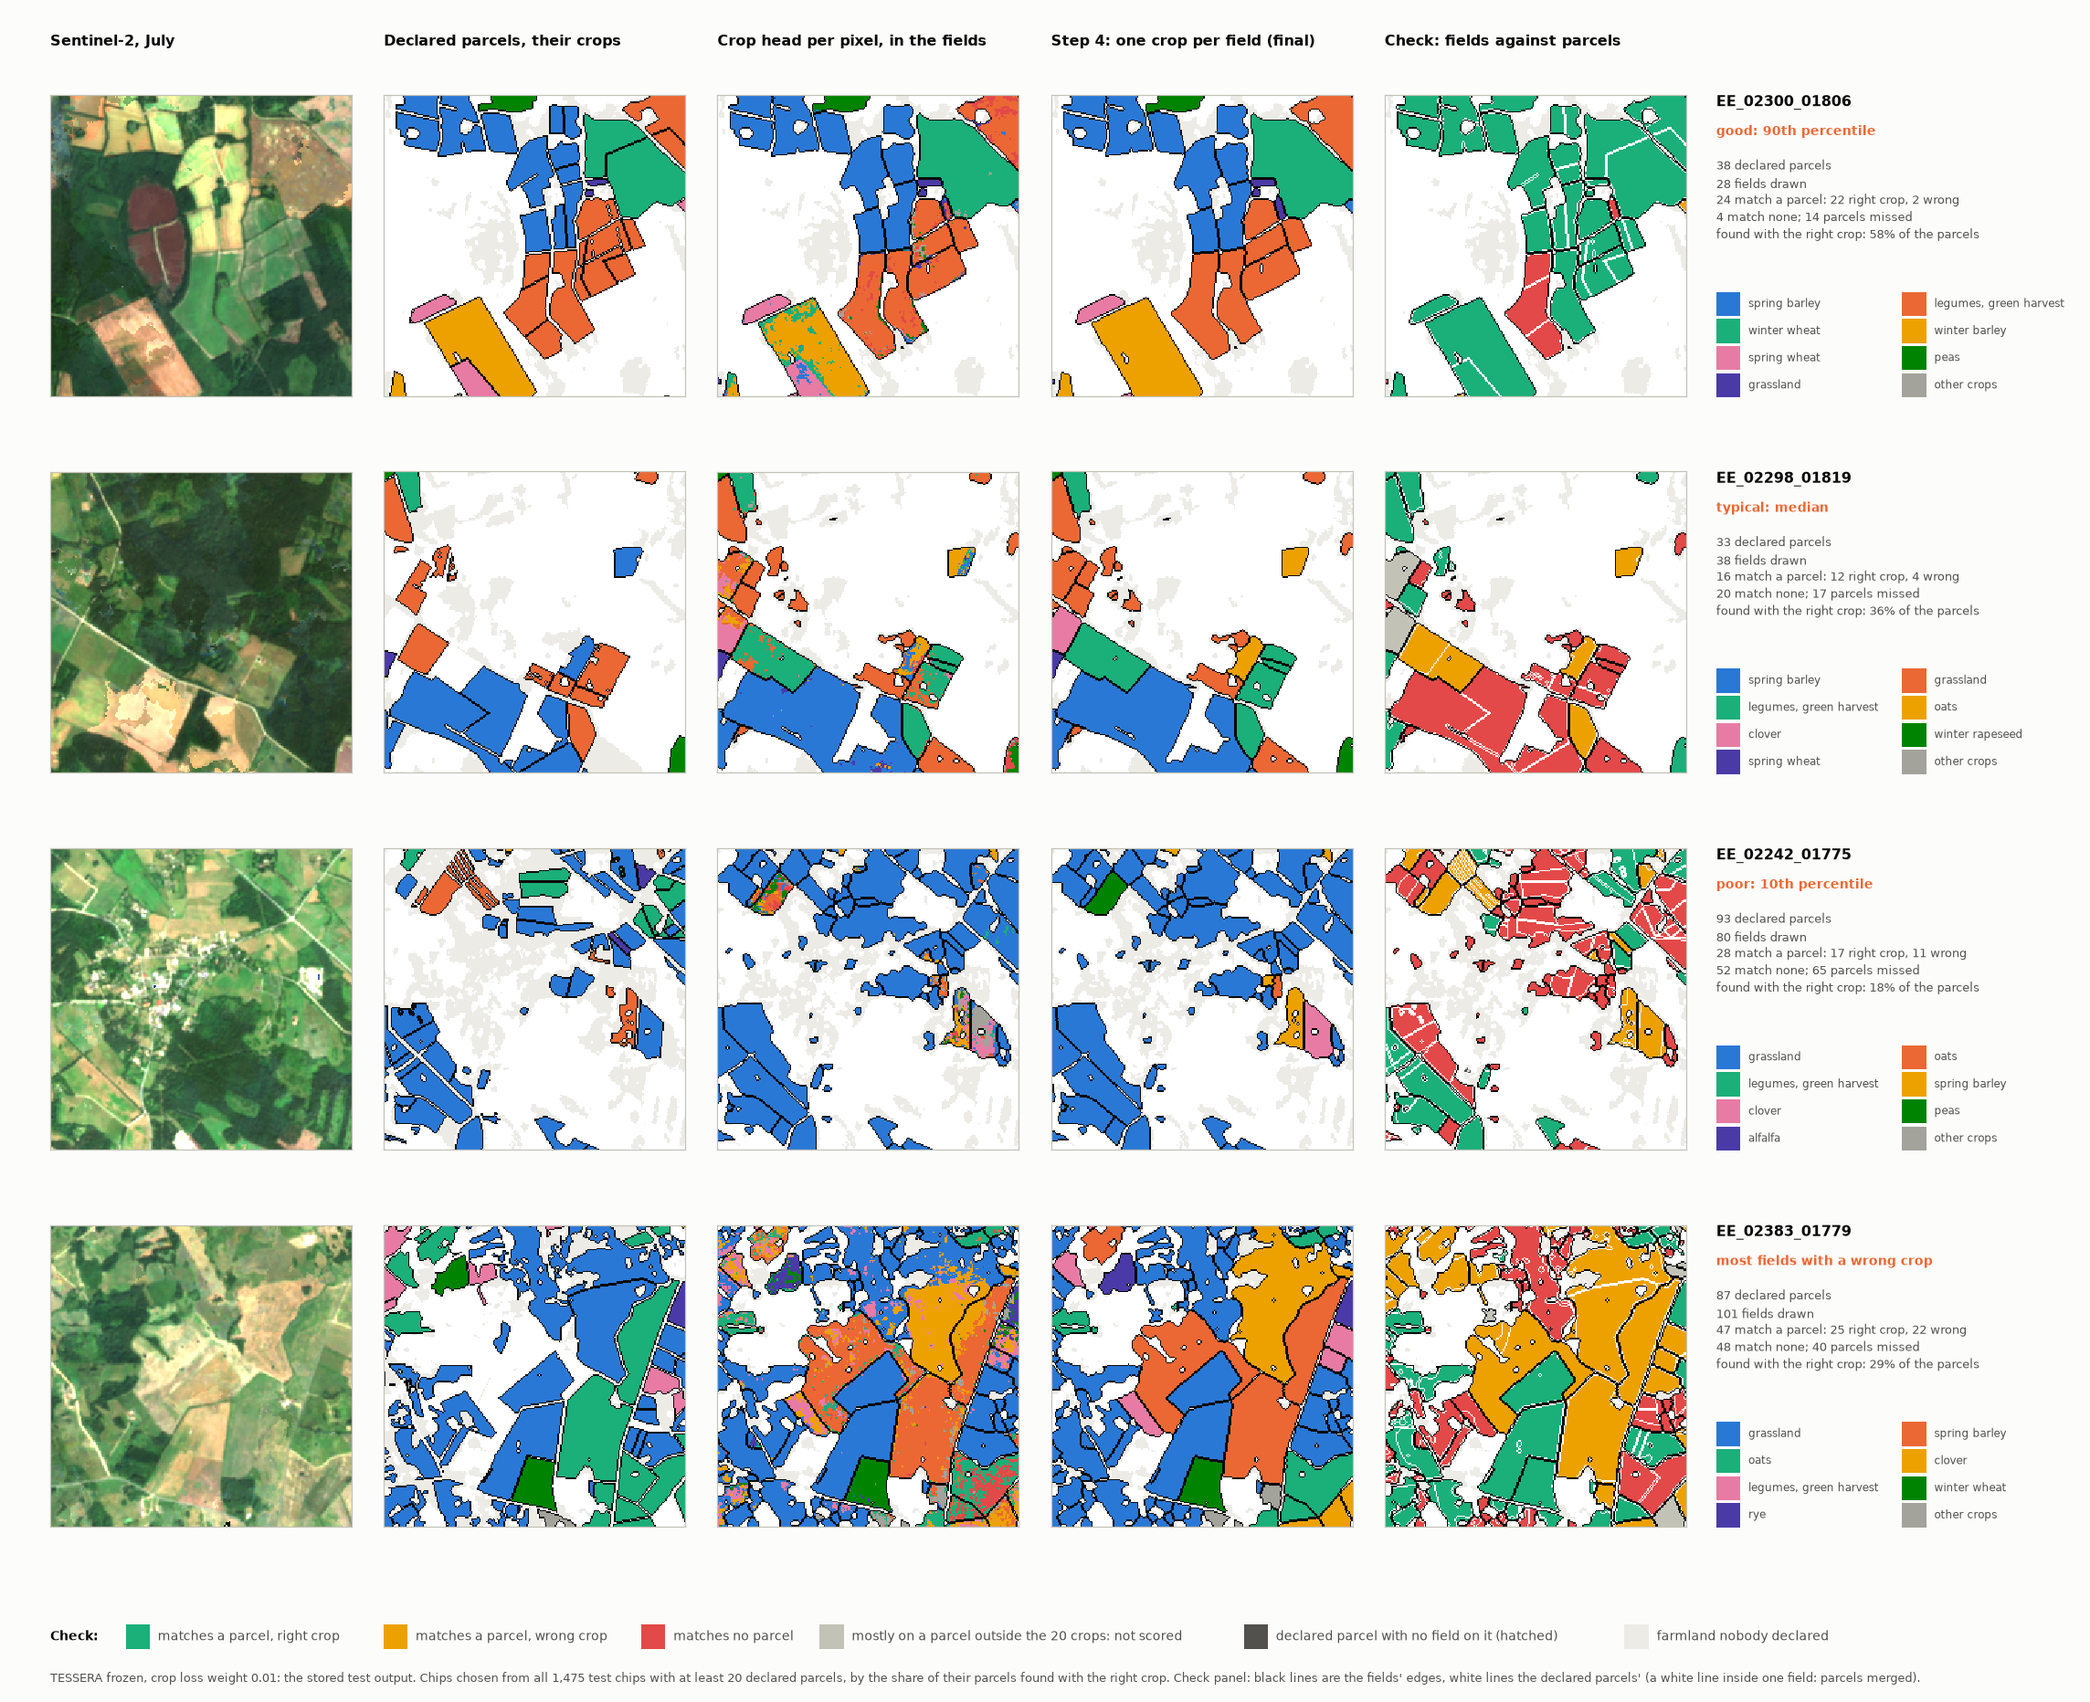
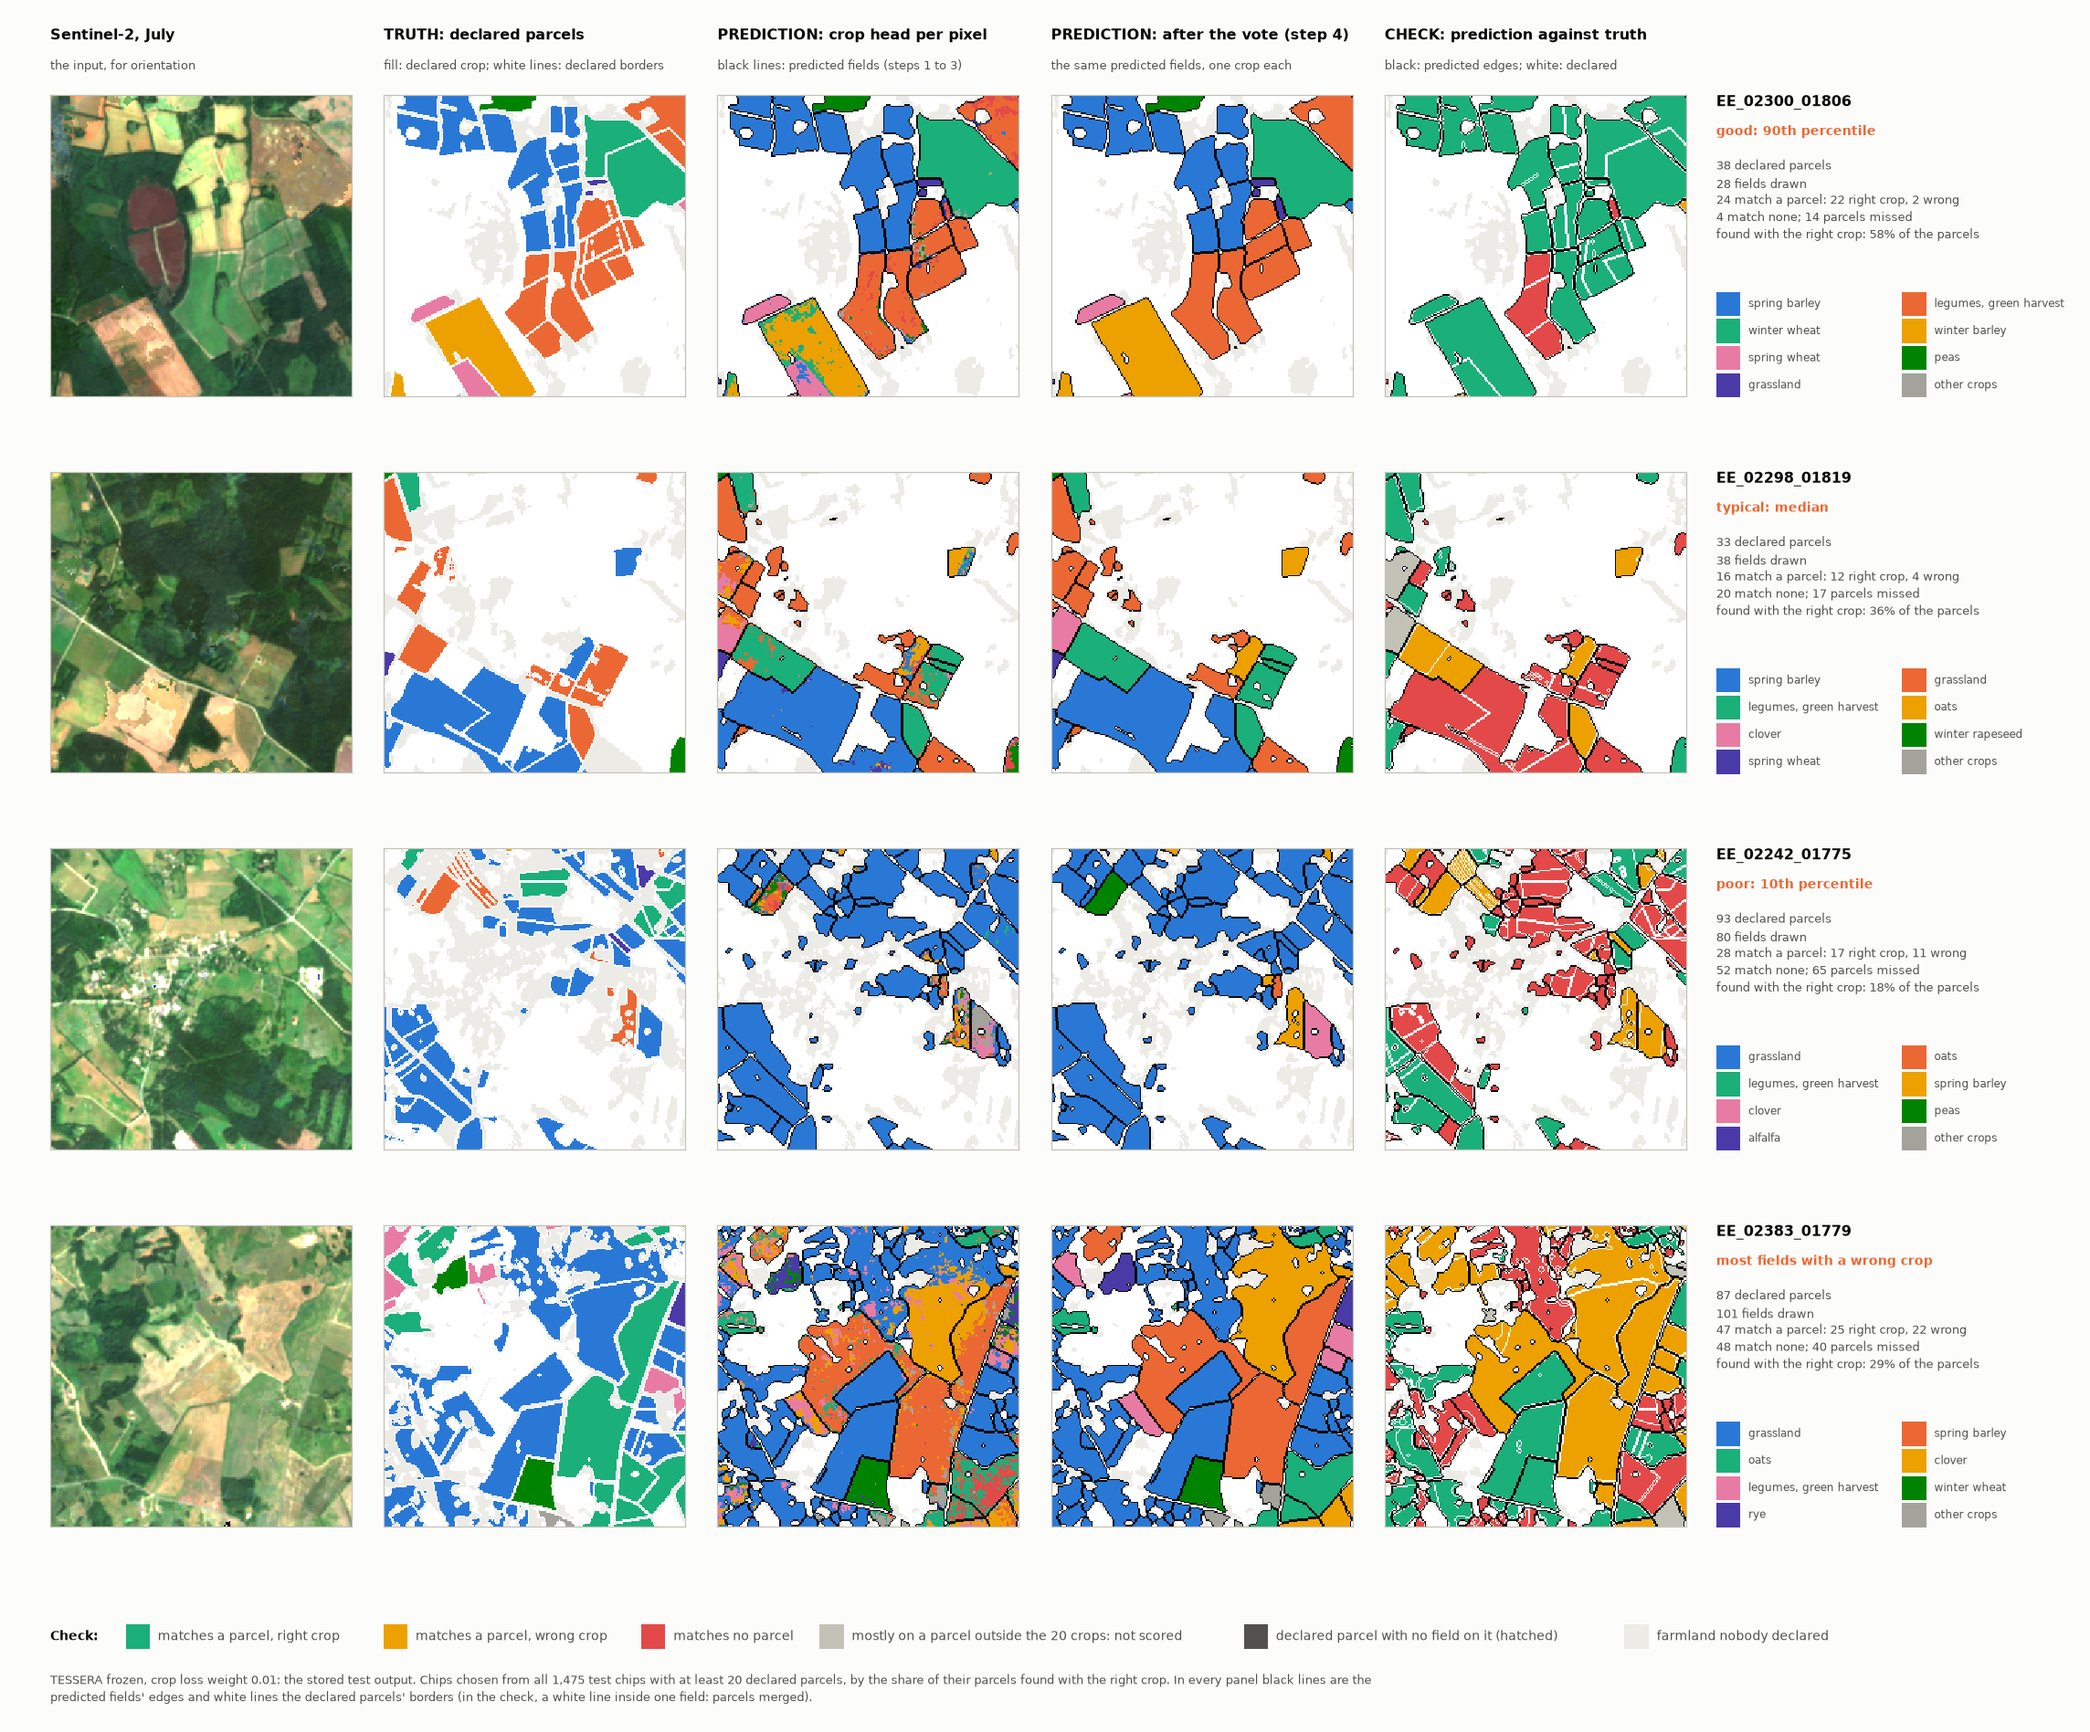
Joint architecture note: black lines for predicted fields, white for declared borders in every panel; each example column labelled truth or prediction

Changed region(s): [[0.0, 0.0, 0.993, 0.9024], [0.031, 0.9335, 0.7448, 0.9957], [0.8068, 0.9335, 0.8689, 0.9646]]

diff --git a/experiments/2026-11-07_prue_crop_tessera/architecture.py b/experiments/2026-11-07_prue_crop_tessera/architecture.py
@@ -187,14 +187,16 @@ def outline(seg: np.ndarray) -> np.ndarray:
     return e
 
 
-def class_image(cls_map, where, colours, edges=None, faint=None):
+def class_image(cls_map, where, colours, edges=None, faint=None, edge_colour=INK):
+    """Classes in their colours where ``where``; ``edges`` drawn in ``edge_colour``. Convention of every figure here:
+    black edges are the predicted fields', white edges the declared parcels'."""
     img = np.ones(cls_map.shape + (3,))
     if faint is not None:
         img[faint] = to_rgb(FAINT)
     for k in np.unique(cls_map[where]):
         img[where & (cls_map == k)] = to_rgb(colours.get(int(k), OTHER))
     if edges is not None:
-        img[edges] = to_rgb(INK)
+        img[edges] = to_rgb(edge_colour)
     return img
 
 
@@ -549,16 +551,16 @@ def draw(D: dict, arm: dict, path: Path) -> None:
     seg, cls = D["seg"], D["cls"]
     C.image(px_[3], py, S, S, class_image(cls[seg], seg > 0, colours, outline(seg)),
             title="Step 4: a crop by majority  =  FINAL",
-            caption="Crop head: each field takes the crop most of its pixels get (its rim included). "
-                    f"{D['n_fields'] + D['dropped']} fields", cap_width=36)
+            caption="The predicted fields of step 3 (black edges), each filled with the crop most of its pixels "
+                    f"get from the crop head (rim included). {D['n_fields'] + D['dropped']} fields", cap_width=36)
     C.line([px_[4] - 0.45, px_[4] - 0.45], [py - 0.4, py + S + 1.2], colour=BASELINE, lw=1.2)
     C.image(px_[4], py, S, S, class_image(D["true_cls"][true], true > 0, colours, outline(true),
-                                          faint=D["farmland"]),
-            title="Compare: declared parcels",
-            caption=f"{D['n_true']} parcels (pieces inside the chip) with their crops. Faint: farmland nobody "
-                    "declared", cap_width=36)
+                                          faint=D["farmland"], edge_colour="#ffffff"),
+            title="Truth: the declared parcels",
+            caption=f"{D['n_true']} parcels (pieces inside the chip) with their declared crops; white lines: "
+                    "their borders. Faint: farmland nobody declared", cap_width=36)
     C.image(px_[5], py, S, S, check_image(D["outcome"], seg, true, D["missed"], D["farmland"]),
-            title="Check: each field against them",
+            title="Check: prediction against truth",
             caption=f"{D['matched']} fields match a parcel (IoU > 0.5): {D['right']} with the right crop, "
                     f"{D['wrong']} with a wrong one; {D['false']} match none. {len(D['missed'])} parcels missed "
                     "(hatched)", cap_width=36)
@@ -586,11 +588,15 @@ def draw_examples(chips: list[tuple[dict, str]], arm: dict, path: Path) -> None:
     rows = len(chips)
     S, gx, top, rh = 3.0, 0.32, 0.95, 3.75
     W = 0.5 + 5 * (S + gx) + 3.7
-    C = Canvas(W, top + rows * rh + 1.0)
-    titles = ["Sentinel-2, July", "Declared parcels, their crops", "Crop head per pixel, in the fields",
-              "Step 4: one crop per field (final)", "Check: fields against parcels"]
-    for j, t in enumerate(titles):
-        C.text(0.5 + j * (S + gx), 0.42, t, fontsize=10.5, weight="bold", color=INK, va="center")
+    C = Canvas(W, top + rows * rh + 1.3)
+    titles = [("Sentinel-2, July", "the input, for orientation"),
+              ("TRUTH: declared parcels", "fill: declared crop; white lines: declared borders"),
+              ("PREDICTION: crop head per pixel", "black lines: predicted fields (steps 1 to 3)"),
+              ("PREDICTION: after the vote (step 4)", "the same predicted fields, one crop each"),
+              ("CHECK: prediction against truth", "black: predicted edges; white: declared")]
+    for j, (t, sub) in enumerate(titles):
+        C.text(0.5 + j * (S + gx), 0.36, t, fontsize=10.5, weight="bold", color=INK, va="center")
+        C.text(0.5 + j * (S + gx), 0.66, sub, fontsize=8.6, color=INK_2, va="center")
     for r, (D, why) in enumerate(chips):
         y = top + r * rh
         names, E, true, seg, cls = D["names"], D["E"], D["true"], D["seg"], D["cls"]
@@ -599,7 +605,7 @@ def draw_examples(chips: list[tuple[dict, str]], arm: dict, path: Path) -> None:
         xs = [0.5 + j * (S + gx) for j in range(5)]
         C.image(xs[0], y, S, S, s2_rgb(D["cid"]))
         C.image(xs[1], y, S, S, class_image(D["true_cls"][true], true > 0, colours, outline(true),
-                                            faint=D["farmland"]))
+                                            faint=D["farmland"], edge_colour="#ffffff"))
         inside = seg > 0
         C.image(xs[2], y, S, S, class_image(D["pred"], inside, colours, outline(seg), faint=D["farmland"] & ~inside))
         C.image(xs[3], y, S, S, class_image(cls[seg], inside, colours, outline(seg), faint=D["farmland"] & ~inside))
@@ -631,9 +637,10 @@ def draw_examples(chips: list[tuple[dict, str]], arm: dict, path: Path) -> None:
     C.swatch(lx, ly, FAINT, "farmland nobody declared")
     C.text(0.5, ly + 0.35, f"{arm['label']}, crop loss weight {arm['weight']:g}: the stored test output. Chips "
                            "chosen from all 1,475 test chips with at least 20 declared parcels, by the share of "
-                           "their parcels found with the right crop. Check panel: black lines are the fields' edges, "
-                           "white lines the declared parcels' (a white line inside one field: parcels merged).",
-           fontsize=8.8)
+                           "their parcels found with the right crop. In every panel black lines are the predicted fields' edges and "
+                           "white lines the declared parcels' borders (in the check, a white line inside one field: "
+                           "parcels merged).",
+           fontsize=8.8, width=230, linespacing=1.4)
     C.save(path)
 
 

diff --git a/experiments/2026-11-07_prue_crop_tessera/ARCHITECTURE.md b/experiments/2026-11-07_prue_crop_tessera/ARCHITECTURE.md
@@ -202,10 +202,19 @@ in part. 17 parcels are missed.
 
 Four test chips, chosen from all 1,475 by one number, the share of their declared parcels found with the right crop,
 among the chips with at least 20 parcels: the 90th percentile, the median, the 10th percentile, and the chip with
-most fields matched with a wrong crop. Each row shows Sentinel-2 in July, the declared parcels with their crops, the
-crop head's pixels inside the fields (before the vote), the fields after the vote, and the check. In the check
-panel, black lines are the fields' edges and white lines the declared parcels': a white line inside one field means
-two parcels came out as one.
+most fields matched with a wrong crop. **In every panel, black lines are the edges of the predicted fields and white
+lines the borders of the declared parcels.** The columns of each row:
+
+1. **Sentinel-2, July**: the input, for orientation.
+2. **Truth: the declared parcels**, each filled with its declared crop, their borders in white. Faint: farmland
+   nobody declared. Nothing the model drew is in this panel.
+3. **Prediction: the crop head, pixel by pixel**, inside the predicted fields (black edges, from steps 1 to 3). This
+   is what the vote counts: the scattered colours inside one field are pixels that disagree with the rest.
+4. **Prediction after the vote (step 4)**: the same predicted fields, each now one colour, the crop most of its pixels
+   got. This is the final output.
+5. **Check: prediction against truth.** Each predicted field coloured by how it fares against the declared parcels
+   (legend below the figure), with both sets of lines: a white line inside one black-edged field means two declared
+   parcels came out as one field.
 
 | Chip | Chosen as | Parcels | Fields | Match a parcel | Right crop | Wrong crop | Match none | Parcels missed |
 |---|---|---|---|---|---|---|---|---|
